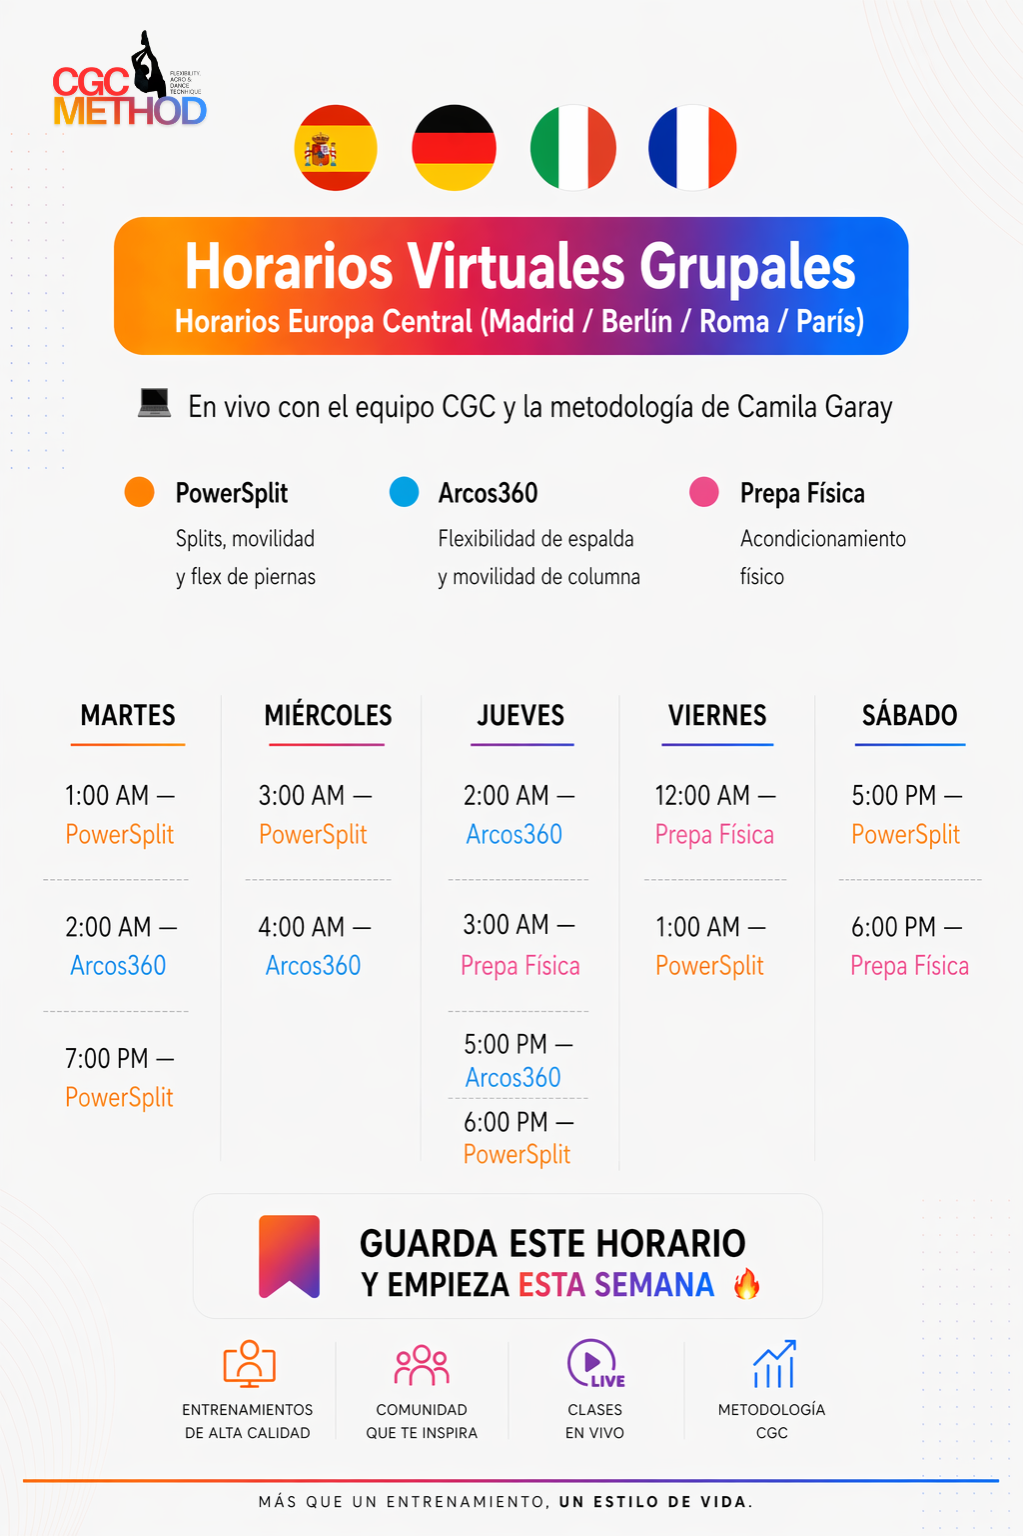
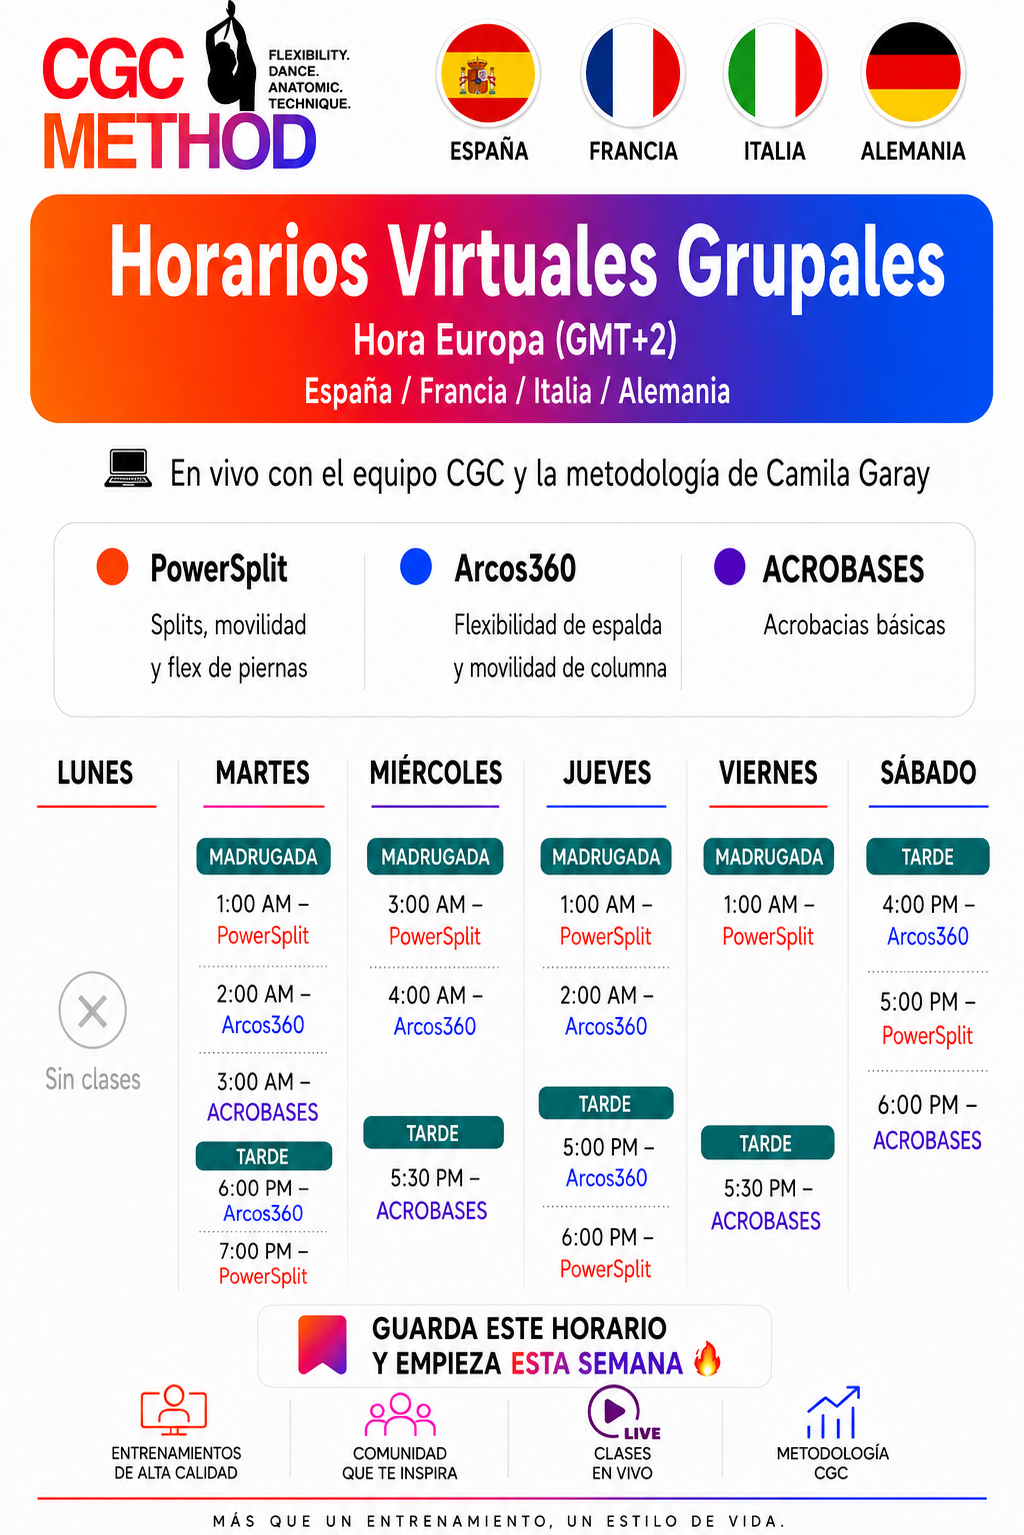
Actualizar horarios a versión Agosto 2026 (ACROBASES)
5 zonas: México GMT-6, Perú GMT-5, Venezuela GMT-4,
Europa GMT+2, Argentina GMT-3. Reemplaza versión Mayo.

diff --git a/index.html b/index.html
@@ -669,7 +669,7 @@ function buildMsgs(rec) {
   } else {
     const horImgs = (isLima || !isExt)
       ? ['img/horario-peru.png']
-      : ['img/horario-peru.png','img/horario-venezuela.png','img/horario-usa.png','img/horario-mexico.png','img/horario-europa.png'];
+      : ['img/horario-peru.png','img/horario-venezuela.png','img/horario-argentina.png','img/horario-mexico.png','img/horario-europa.png'];
     const horNote = (isLima || !isExt)
       ? '📸 Enviar esta imagen de horarios por WhatsApp:'
       : '📸 Enviar la imagen del horario que corresponda según el país del lead:';

diff --git a/manual-ventas-whatsapp.html b/manual-ventas-whatsapp.html
@@ -669,7 +669,7 @@ function buildMsgs(rec) {
   } else {
     const horImgs = (isLima || !isExt)
       ? ['img/horario-peru.png']
-      : ['img/horario-peru.png','img/horario-venezuela.png','img/horario-usa.png','img/horario-mexico.png','img/horario-europa.png'];
+      : ['img/horario-peru.png','img/horario-venezuela.png','img/horario-argentina.png','img/horario-mexico.png','img/horario-europa.png'];
     const horNote = (isLima || !isExt)
       ? '📸 Enviar esta imagen de horarios por WhatsApp:'
       : '📸 Enviar la imagen del horario que corresponda según el país del lead:';
